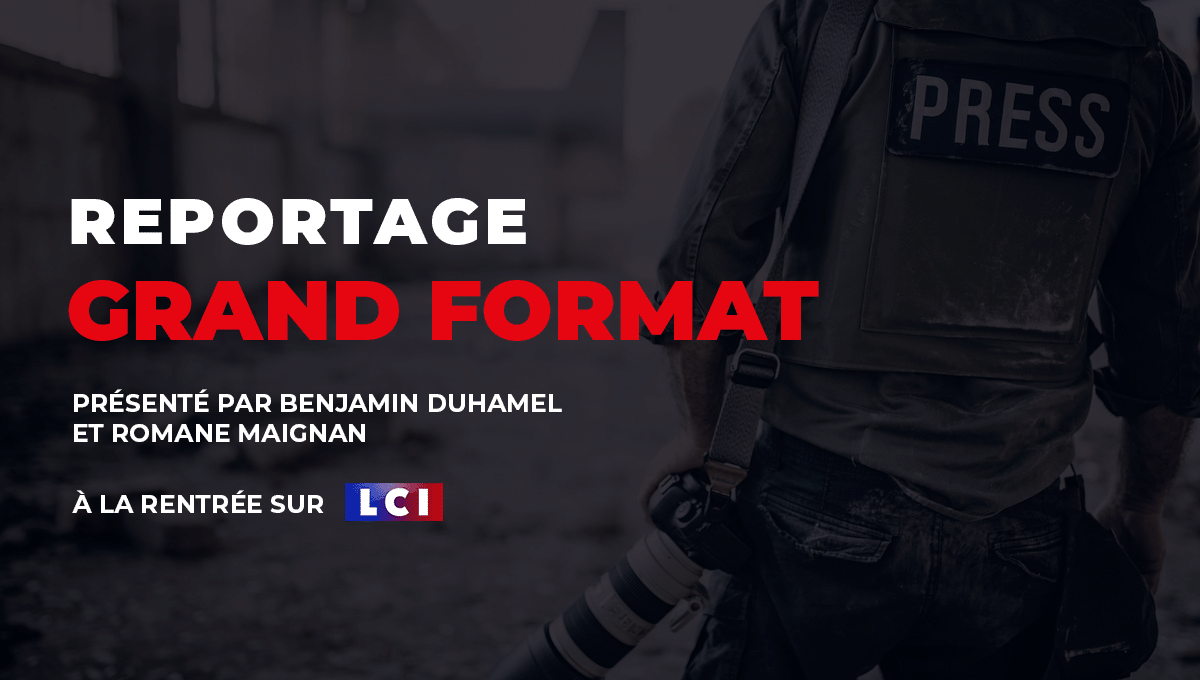
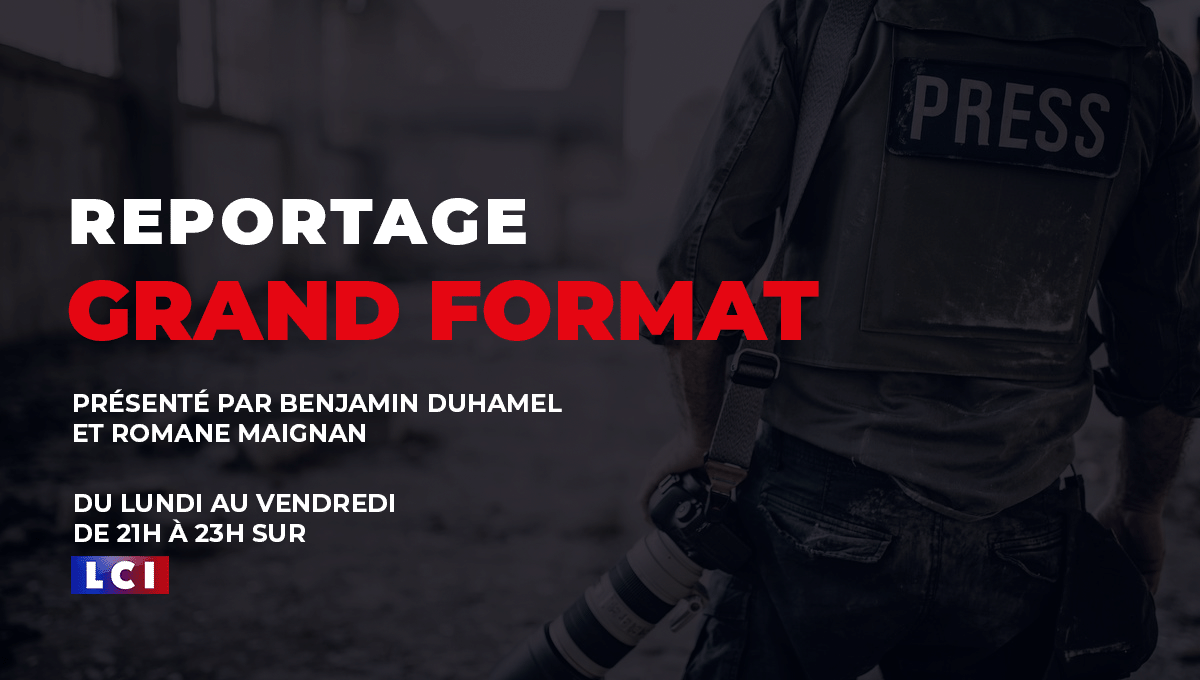
modif nouvelle saison carrousel

Changed region(s): [[0.0617, 0.7103, 0.37, 0.8956]]

diff --git a/index.html b/index.html
@@ -309,6 +309,25 @@
         </div>
         <div class="carousel-slide">
           <picture>
+            <img src="photo/Reportage grand format.png" alt="Magnum" />
+          </picture>
+          <div class="carousel-overlay">
+            <div class="carousel-content-wrapper">
+              <div class="text-box">
+                <h2>
+                  <span class="badge-inedit">INÉDIT</span>
+                </h2>
+                <h2>reportage grand format</h2>
+                <p>
+                  présentée par Benjamin duhamel et romane maignan du lundi au
+                  vendredi à 21H00 sur LCI Camping Paradis.
+                </p>
+              </div>
+            </div>
+          </div>
+        </div>
+        <div class="carousel-slide">
+          <picture>
             <img src="photo/eed9c21d5276486984a519db99c4eb45.webp" alt="H5-0" />
           </picture>
           <div class="carousel-overlay">
@@ -384,6 +403,7 @@
           <span class="dot" onclick="currentSlide(12)"></span>
           <span class="dot" onclick="currentSlide(13)"></span>
           <span class="dot" onclick="currentSlide(14)"></span>
+          <span class="dot" onclick="currentSlide(15)"></span>
         </div>
         <button class="nav-arrow prev" onclick="changeSlide(-1)">
           &#10094;

diff --git a/component/direction/direction.html b/component/direction/direction.html
@@ -21,6 +21,18 @@
       href="https://cdnjs.cloudflare.com/ajax/libs/font-awesome/6.4.0/css/all.min.css"
     />
     <meta name="theme-color" content="#00152b" />
+    <script>
+      const mdp = prompt(
+        "Veuillez entrer le mot de passe pour accéder à cette page :",
+      );
+
+      if (mdp !== "79230") {
+        alert(
+          "Mot de passe incorrect. Vous allez être redirigé vers l'accueil.",
+        );
+        window.location.href = "/index.html"; // Redirige le visiteur vers l'accueil
+      }
+    </script>
   </head>
 
   <body>

diff --git a/component/pro/pro.js b/component/pro/pro.js
@@ -54,10 +54,6 @@ const baseDeDonnees = {
     type: "Grille Annuelle 2025 - 2026",
     data: {
       2026: {
-        label: "Grille été 2026",
-        fichier: "../../csv/lci_ete2026.csv",
-      },
-      2028: {
         label: "Grille Annuelle 2026 - 2027",
         fichier: "../../csv/lci_annuel2026-2027.csv",
       },

diff --git a/js/ce-soir.js b/js/ce-soir.js
@@ -44,7 +44,7 @@ document.addEventListener("DOMContentLoaded", async () => {
     {
       id: "lci",
       logo: "./photo/logo-LCI.jpg",
-      fichierCSV: "./csv/lci_ete2026.csv",
+      fichierCSV: "./csv/lci_annuel2026-2027.csv",
     },
   ];
 
